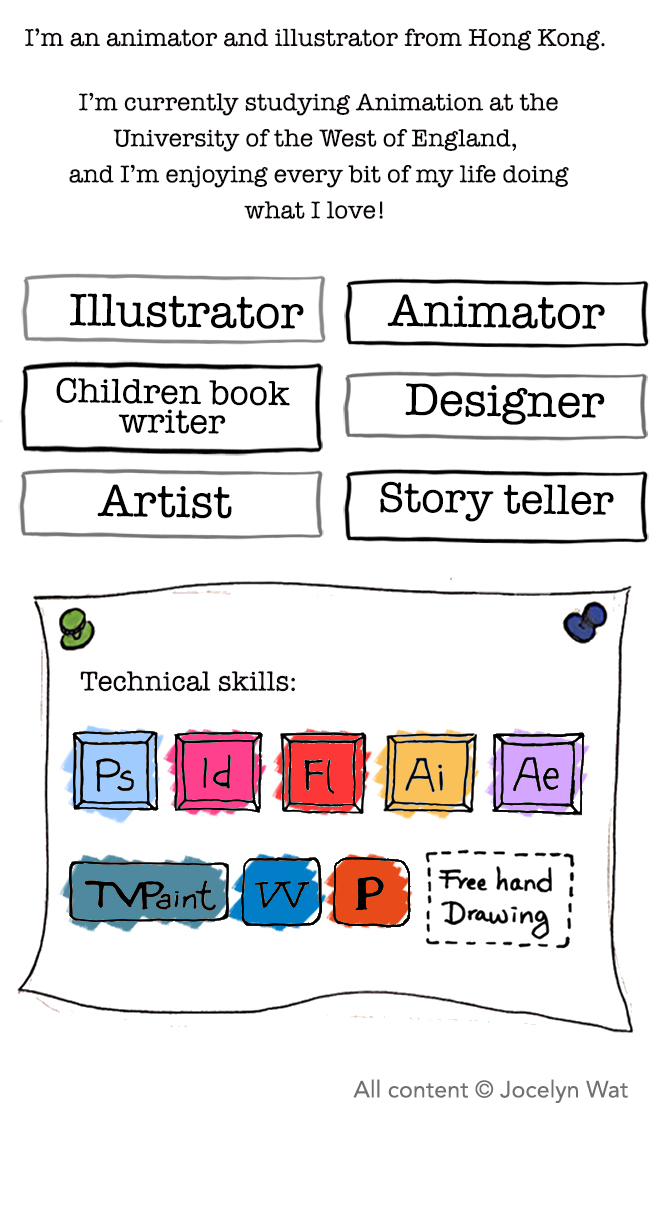
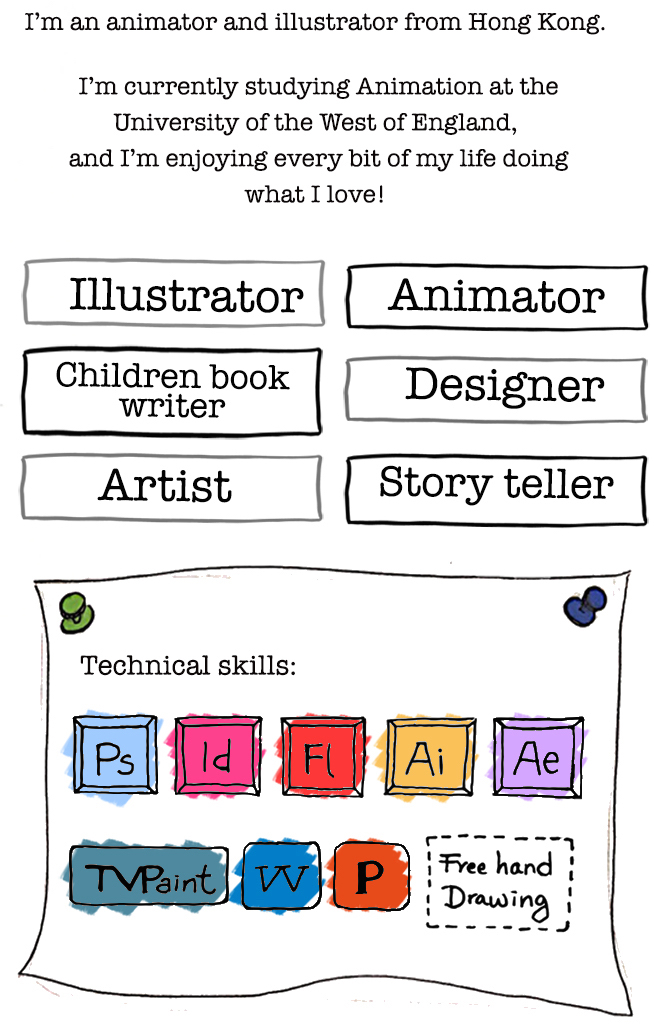
resize copyright, removed duplicated copyright in about page

diff --git a/footer.html b/footer.html
@@ -1,5 +1,5 @@
-<div class="col-xs-2 col-sm-2 col-md-8 col-lg-8">
+<div class="col-xs-2 col-sm-2 col-md-6 col-lg-6">
 </div>
-<div class="col-xs-8 col-sm-8 col-md-4 col-lg-4 copyright">
+<div class="col-xs-10 col-sm-10 col-md-6 col-lg-6 copyright">
 	<img src="img/copyright.jpg"/>
 </div>

diff --git a/css/style.css b/css/style.css
@@ -92,7 +92,7 @@ div {
 }
 
 .copyright img {
-	width: 100%; 
+	width: 80%; 
 }
 
 /* tabs */
